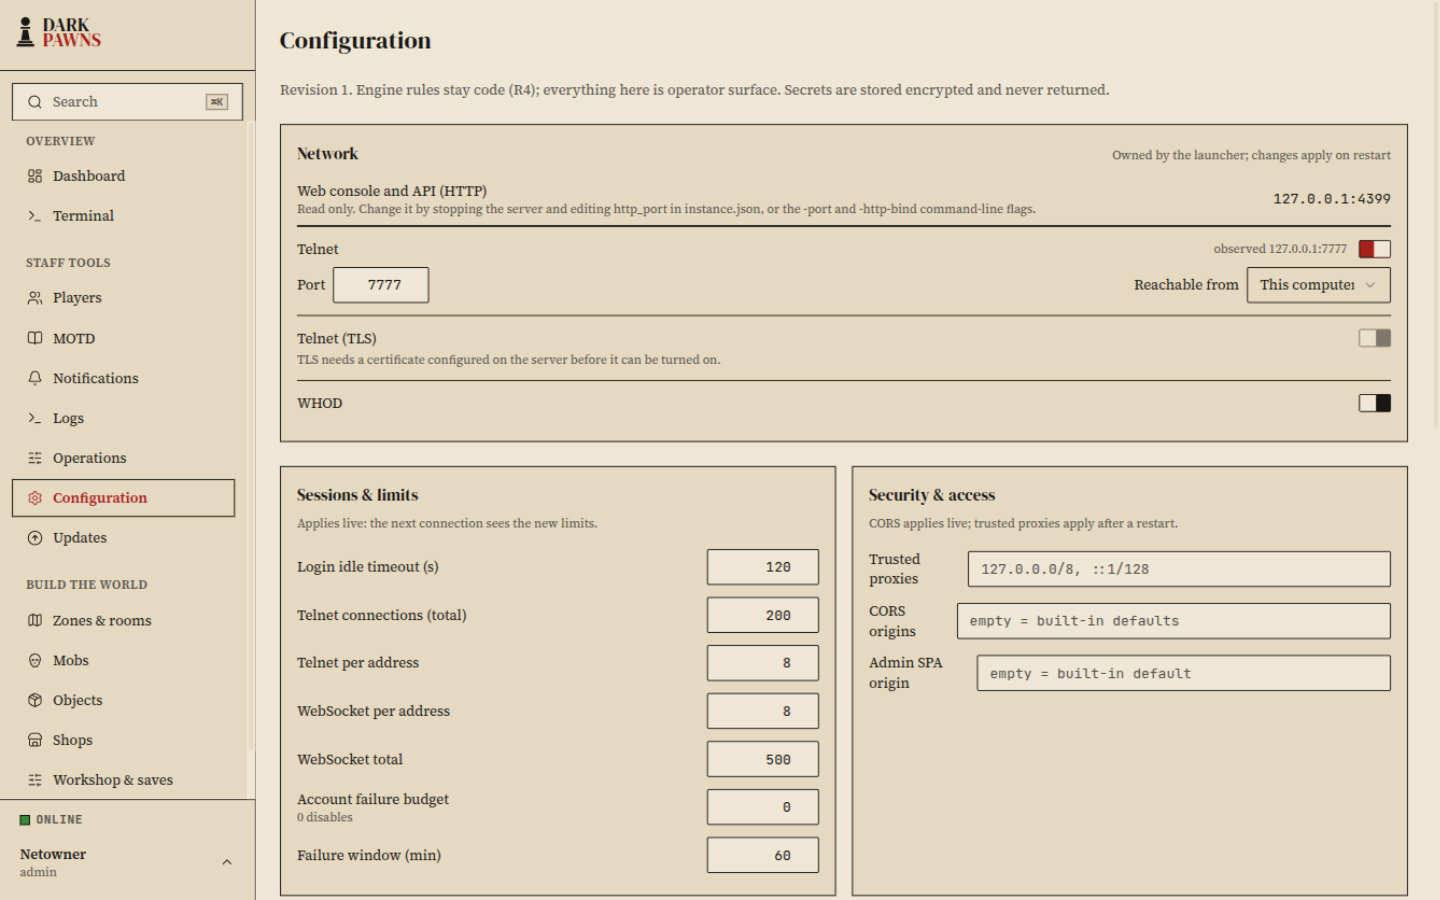
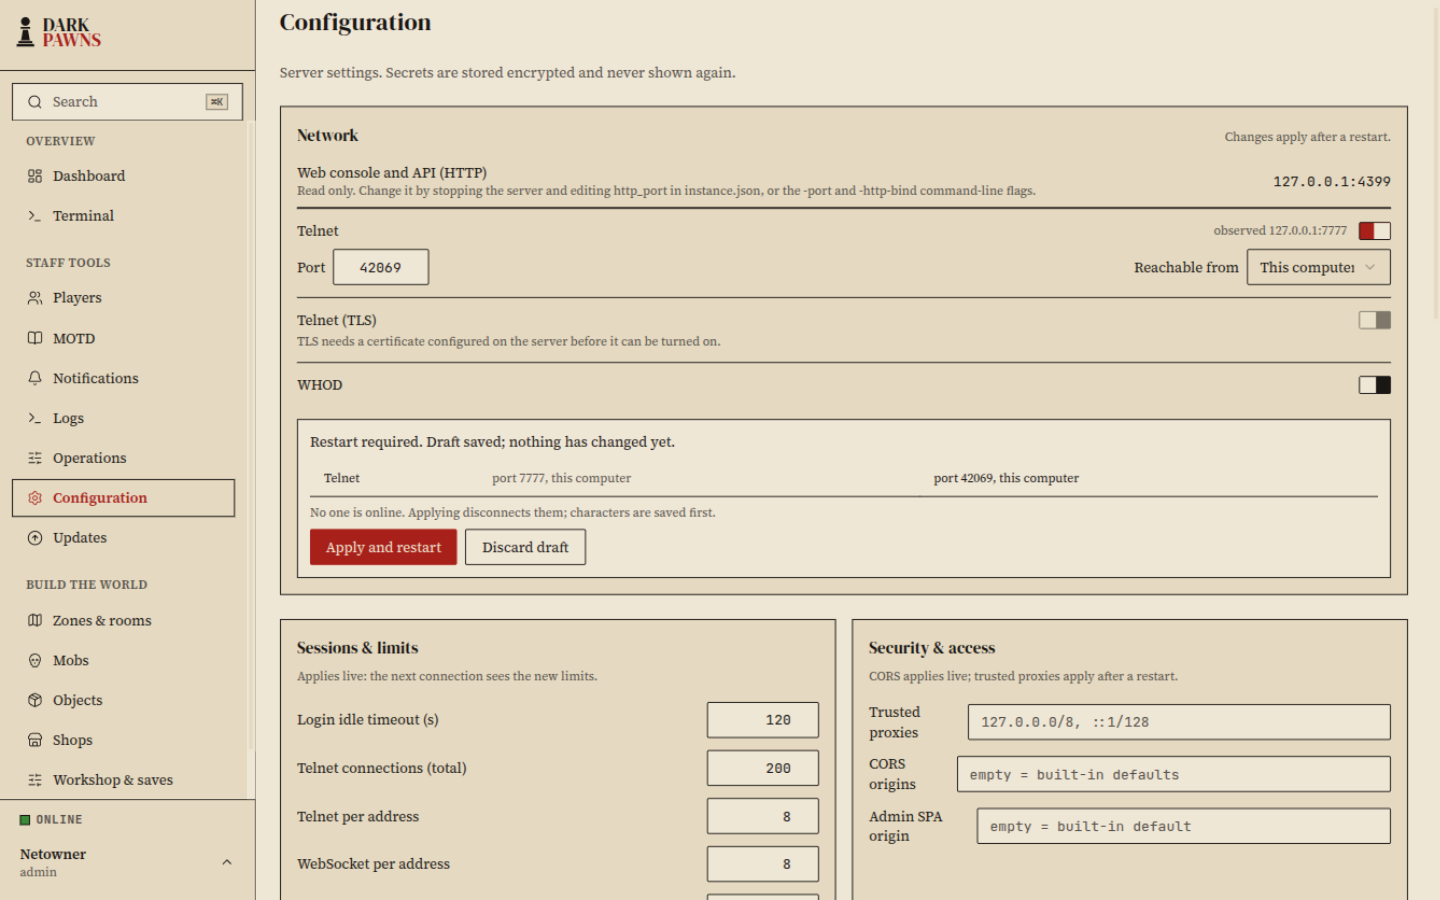
fix(admin-ui): plain-words copy and the draft value in the port field
Product copy per docs/brand-voice.md 8.5: the Configuration header no
longer mentions revisions, rule codes or operator surface ('Server
settings. Secrets are stored encrypted and never shown again.'), the
Network card header says 'Changes apply after a restart.', the
non-managed explanation and the confirm dialog drop launcher/internal
jargon (instance.json stays only where the HTTP row explains how to
change the port), and the env-override tooltip speaks plainly.

The port field now shows the saved draft while one exists: a successful
save reloads the configured view, so the field keeps what you typed and
observed keeps naming the running listener until the restart. Draft
banner and card screenshots re-captured against the fix.

Changed region(s): [[0.1875, 0.0, 1.0, 1.0]]

diff --git a/admin-ui/src/components/NetworkCard.tsx b/admin-ui/src/components/NetworkCard.tsx
@@ -129,6 +129,7 @@ export function NetworkCard() {
     onSuccess: (result) => {
       setSaved(result as SaveResult);
       setDrafts(null);
+      queryClient.invalidateQueries({ queryKey: ['network'] });
       showToast('Saved as a draft. Nothing changes until you apply and restart.', 'success');
     },
     onError: (err: { status?: number; message?: string }) => {
@@ -206,7 +207,7 @@ export function NetworkCard() {
     <section className="border border-rule bg-paper-deep p-4">
       <header className="mb-2 flex items-baseline justify-between gap-2">
         <h2 className="text-base font-semibold text-ink">Network</h2>
-        <span className="text-xs text-ink-muted">{view.managed ? 'Owned by the launcher; changes apply on restart' : 'Read-only on this server'}</span>
+        <span className="text-xs text-ink-muted">{view.managed ? 'Changes apply after a restart.' : 'Read-only on this server'}</span>
       </header>
 
       <div className="flex items-center justify-between gap-4 border-b border-rule py-2">
@@ -223,8 +224,8 @@ export function NetworkCard() {
 
       {!view.managed && (
         <p className="mt-3 text-sm text-ink-muted">
-          This server runs outside the portable launcher. To change listeners, stop the server and adjust the
-          -telnet-port, -telnet-bind and -whod flags, or edit instance.json while the world is stopped.
+          These settings are read only on this server. Change listeners by stopping the server and starting
+          it again with different -telnet-port, -telnet-bind or -whod flags.
         </p>
       )}
 
@@ -301,7 +302,7 @@ export function NetworkCard() {
             ))}
             <p className="text-xs text-ink-muted">
               The web console at its current address keeps working through the restart. If any requested
-              listener fails to bind, the launcher puts the previous settings back automatically.
+              listener fails to bind, the previous settings come back automatically.
             </p>
           </div>
         }

diff --git a/admin-ui/src/pages/SettingsPage.tsx b/admin-ui/src/pages/SettingsPage.tsx
@@ -87,7 +87,7 @@ function GroupCard({ title, subtitle, children, envOverridden }: { title: string
       <header className="mb-2 flex items-baseline justify-between gap-2">
         <h2 className="text-base font-semibold text-ink">{title}</h2>
         {envOverridden && envOverridden.length > 0 && (
-          <span className="border border-ink-muted/40 px-2 py-0.5 text-xs text-ink-muted" title="An exported environment variable still wins over the file for these fields.">
+          <span className="border border-ink-muted/40 px-2 py-0.5 text-xs text-ink-muted" title="These fields are set in the server's environment and take priority over this page.">
             env overrides: {envOverridden.join(', ')}
           </span>
         )}
@@ -257,7 +257,7 @@ export function SettingsPage() {
   return (
     <div className="space-y-6">
       <h1 className="text-2xl font-bold text-ink">Configuration</h1>
-      <p className="text-sm text-ink-muted">Revision {view.revision}. Engine rules stay code (R4); everything here is operator surface. Secrets are stored encrypted and never returned.</p>
+      <p className="text-sm text-ink-muted">Server settings. Secrets are stored encrypted and never shown again.</p>
 
       {conflict && (
         <div className="border border-accent bg-accent/5 p-3 text-sm text-ink" role="alert">

diff --git a/docs/evidence/2026-10-28-network-rehearsal/README.md b/docs/evidence/2026-10-28-network-rehearsal/README.md
@@ -9,7 +9,8 @@ through the Configuration page's Network card.
 
 `network-card.png` (the card: HTTP read-only with its how-to-change
 explanation, observed listener beside each toggle), `network-draft-banner.png`
-(save-as-draft banner: the exposure diff table, revision, who-is-online line),
+(save-as-draft banner: the port field shows the saved draft while observed
+still names the running listener, the exposure diff table, who-is-online),
 `network-confirm.png` (the confirm dialog: players by name, the diff, the
 recovery-path sentence), `network-committed.png` (Committed; the page survived
 the restart and reconnected by itself).
